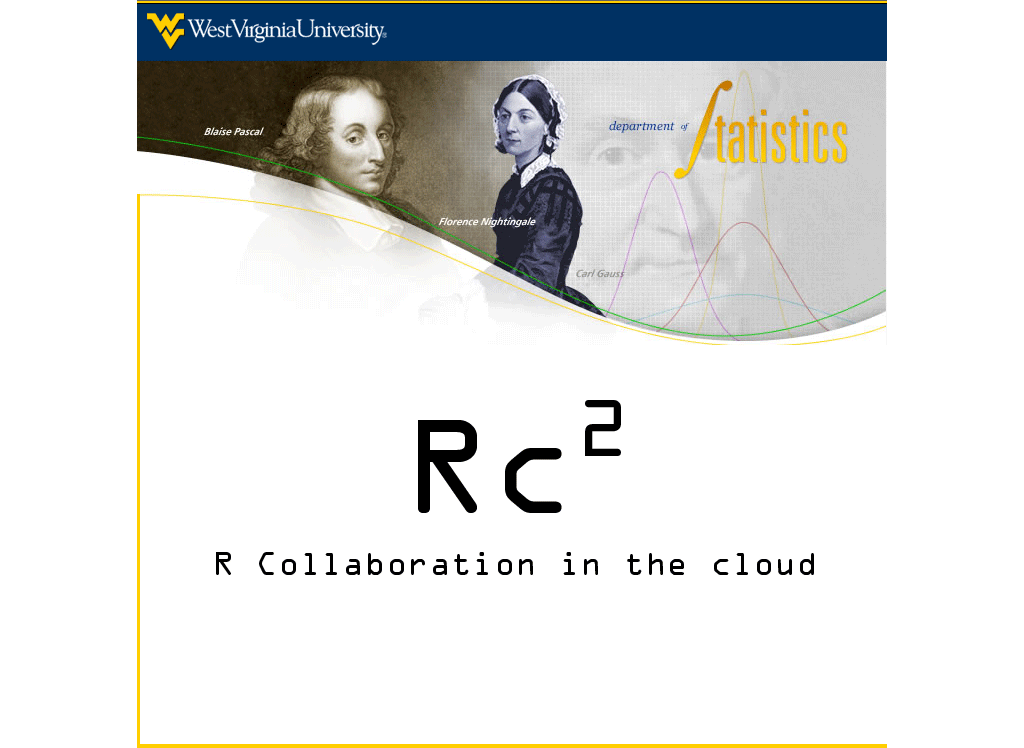
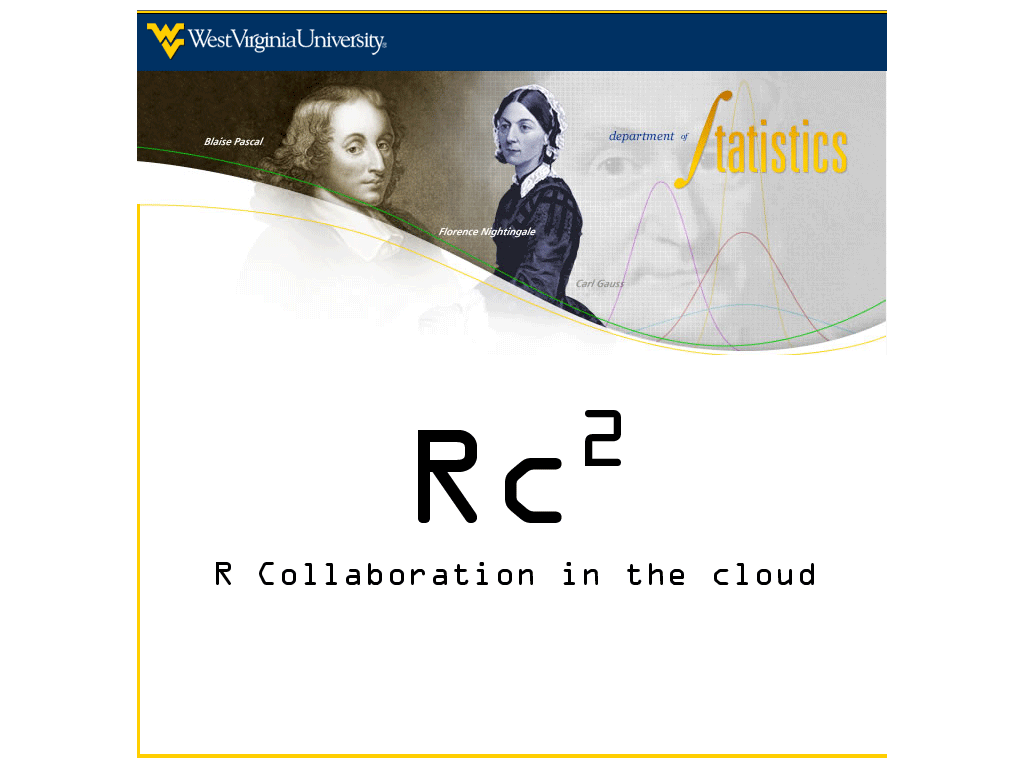
more ios7 interface tweeks. added temp hack to main.m to stop annoying debug messages. updated spalsh images to have a background.

diff --git a/source/ios/main.m b/source/ios/main.m
@@ -8,8 +8,24 @@
 
 #import <UIKit/UIKit.h>
 
+
+//fix for 7b5 crazy console logging
+typedef int (*PYStdWriter)(void *, const char *, int);
+static PYStdWriter _oldStdWrite;
+
+
+int __pyStderrWrite(void *inFD, const char *buffer, int size)
+{
+    if ( strncmp(buffer, "AssertMacros:", 13) == 0 ) {
+        return 0;
+    }
+    return _oldStdWrite(inFD, buffer, size);
+}
+
 int main(int argc, char *argv[])
 {
+    _oldStdWrite = stderr->_write;
+    stderr->_write = __pyStderrWrite;
 	@autoreleasepool {
 		int retVal = UIApplicationMain(argc, argv, @"iAMApplication", nil);
 		return retVal;

diff --git a/source/ios/iSettingsController.m b/source/ios/iSettingsController.m
@@ -90,8 +90,7 @@ enum { eTree_Theme, eTree_Keyboard };
 	ThemeEngine *te = [ThemeEngine sharedInstance];
 	Theme *curTheme = te.currentTheme;
 	self.themeLabel.text = curTheme.name;
-	self.navigationItem.rightBarButtonItem = [[UIBarButtonItem alloc] initWithBarButtonSystemItem:UIBarButtonSystemItemDone
-																							target:self action:@selector(dismiss:)];
+
 	NSArray *settingsCells = @[self.keyboardCell,self.themeCell];
 	if ([[Rc2Server  sharedInstance] isAdmin])
 		settingsCells = [settingsCells arrayByAddingObject:self.editThemeCell];
